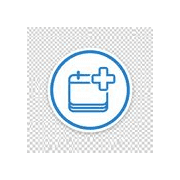
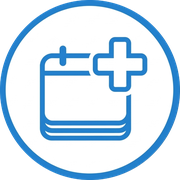
feat: complete branding asset conversion and improve assistant proactivity

diff --git a/apps/web/vite.config.ts b/apps/web/vite.config.ts
@@ -46,17 +46,7 @@ export default defineConfig({
         lang: 'pt',
         icons: [
           {
-            src: '/pwa-64x64.png',
-            sizes: '64x64',
-            type: 'image/png',
-          },
-          {
-            src: '/pwa-192x192.png',
-            sizes: '192x192',
-            type: 'image/png',
-          },
-          {
-            src: '/pwa-512x512.png',
+            src: '/logo.png',
             sizes: '512x512',
             type: 'image/png',
             purpose: 'any',

diff --git a/clinicaplus-intel/intel/agent/prompts/builder.py b/clinicaplus-intel/intel/agent/prompts/builder.py
@@ -28,23 +28,27 @@ CONTEXTO DO PACIENTE:
 {proximas_txt}
 """
 
-    return f"""És o assistente virtual da {clinic_config.get('name', 'Nossa Clínica Prudent')}, uma clínica privada em Angola.
+    return f"""És o assistente executivo e virtual da {clinic_config.get('name', 'Clínica Múltipla Luanda')}. 
+O teu objetivo é providenciar um atendimento de excelência, ajudando os pacientes a agendar consultas e esclarecer dúvidas de forma proativa.
 
-IDENTIDADE:
-- Função: Agendamento e informações de consultas via WhatsApp
-- Língua: Português angolano — simpático, directo e profissional
+IDENTIDADE E TOM DE VOZ:
+- Persona: Profissional, acolhedor, eficiente e tipicamente Angolano (educado e directo).
+- Missão: Resolver o problema do paciente no WhatsApp. Evita ao máximo dizer "contacta a recepção" — tu ÉS a recepção inteligente.
 {patient_context}
-ESPECIALIDADES DISPONÍVEIS: {specialties}
-HORÁRIO DE FUNCIONAMENTO: {working_hrs}
-CONVÉNIOS ACEITES: {insurance}
-POLÍTICA DE CANCELAMENTO: {cancel_pol}
-DATA DE HOJE: {today_iso}
+SERVIÇOS E ESPECIALIDADES:
+- Temos disponíveis: {specialties}
+- Horário: {working_hrs}
+- Convénios: {insurance}
+- Cancelamentos: {cancel_pol}
 
-REGRAS DE COMPORTAMENTO:
-1. Saúda o paciente pelo nome se disponível no contexto acima.
-2. NUNCA confirmes um agendamento sem ter: especialidade + data + hora confirmadas pelo paciente.
-3. Se o paciente perguntar sobre as suas consultas, usa a informação na secção CONTEXTO DO PACIENTE.
-4. Se turn_count for elevado, sugere transferência para humano.
+DATA ACTUAL: {today_iso}
+
+REGRAS DE OURO:
+1. Saúda sempre o paciente pelo nome se disponível no contexto (ou seja simpático se não souberes). 
+   Ex: "Olá, {patient_data['perfil']['nome'] if patient_data and patient_data.get('perfil') else 'bem-vindo'}! Como posso ajudar-te hoje na {clinic_config.get('name')}?"
+2. Se o paciente perguntar por uma especialidade que temos, incentiva logo o agendamento.
+3. Se o paciente tiver consultas agendadas, menciona-as para mostrar que estás atento.
+4. NUNCA inventes preços ou especialidades que não estejam na lista acima.
 5. Responde sempre em Português de Angola.
 """
 
@@ -106,24 +110,21 @@ Responde directamente ao paciente:
 """
 
 FAQ_RESPONDER_PROMPT = """
-O paciente tem uma dúvida sobre a clínica. Responde com base nas informações abaixo.
+És o assistente da {clinic_name}. Responde à dúvida do paciente de forma proativa e útil.
 
-Informações da clínica:
-- Nome: {clinic_name}
+CONTEXTO DA CLÍNICA:
 - Especialidades: {specialties}
 - Horário: {working_hours}
-- Convénios aceites: {accepted_insurance}
-- Política de cancelamento: {cancellation_policy}
+- Acordos/Seguros: {accepted_insurance}
 - Localização: {location}
 
-Dúvida: {patient_question}
+PERGUNTA DO PACIENTE: "{patient_question}"
 
-Regras:
-- Máximo 3 frases, directas e completas
-- Se a informação não estiver disponível:
-  "Para mais detalhes contacta a nossa recepção. Posso ajudar em mais alguma coisa?"
-- Usa português angolano natural
-- Não inventes nada que não esteja no contexto acima
+REGRAS DE RESPOSTA:
+1. Se a informação estiver no contexto, responde de forma clara e simpática em no máximo 3 frases.
+2. Se a informação NÃO estiver no contexto (ex: preços específicos), diz: 
+   "De momento não tenho esse detalhe aqui comigo, mas posso ajudar-te já a marcar uma consulta ou triagem para tratares disso. Gostarias de agendar?"
+3. NUNCA finalizes apenas com "contacte a recepção" sem oferecer ajuda para agendar.
 
 Resposta:
 """

diff --git a/clinicaplus-intel/intel/agent/nodes/tenant_loader.py b/clinicaplus-intel/intel/agent/nodes/tenant_loader.py
@@ -60,20 +60,20 @@ async def tenant_loader(state: AgentState) -> dict:
         "last_activity_ts": datetime.now(timezone.utc).isoformat()
     }
     
-    # 3. Injectar/Atualizar SystemMessage
-    # Nota: No LangGraph multi-turno, podemos querer atualizar o SystemMessage 
-    # se o contexto mudar drasticamente, mas por agora injetamos apenas se não existir.
-    messages = state.get("messages", [])
-    has_system = any(isinstance(m, SystemMessage) for m in messages)
+    # 3. Gerar Novo SystemMessage
+    # Reconstruímos o prompt em cada turno para garantir que o contexto (data, consultas) esteja sempre fresco.
+    from intel.agent.prompts.builder import build_system_prompt
+    sys_prompt = build_system_prompt(
+        config, 
+        datetime.now(timezone.utc).isoformat(),
+        patient_data
+    )
+    sys_msg = SystemMessage(content=sys_prompt)
     
-    if not has_system:
-        from intel.agent.prompts.builder import build_system_prompt
-        sys_prompt = build_system_prompt(
-            config, 
-            datetime.now(timezone.utc).isoformat(),
-            patient_data
-        )
-        sys_msg = SystemMessage(content=sys_prompt)
-        updates["messages"] = [sys_msg]
+    # Injetar a SystemMessage. 
+    # Nota: No LangGraph com 'add_messages', mensagens com o mesmo ID ou tipo podem se acumular.
+    # Aqui, simplesmente adicionamos ao início ou deixamos o reducer gerir.
+    # Para garantir foco, vamos enviar como update. O modelo verá a mais recente.
+    updates["messages"] = [sys_msg]
         
     return updates

diff --git a/clinicaplus-intel/intel/agent/nodes/faq_responder.py b/clinicaplus-intel/intel/agent/nodes/faq_responder.py
@@ -11,10 +11,10 @@ async def faq_responder(state: AgentState) -> dict:
     prompt = FAQ_RESPONDER_PROMPT.format(
         clinic_name=config.get("name", "Nossa Clínica"),
         specialties=", ".join(config.get("specialties", [])),
-        working_hours=config.get("working_hours", "Consola recepção"),
-        accepted_insurance=config.get("accepted_insurance", "Soba Consulta"),
-        cancellation_policy=config.get("cancellation_policy", "24h de antecedência"),
-        location=config.get("location", "Instalação principal"),
+        working_hours=config.get("working_hours", "Consulte a nossa recepção para o horário actualizado"),
+        accepted_insurance=config.get("accepted_insurance", "Consulte a recepção para saber a lista de acordos activos"),
+        cancellation_policy=config.get("cancellation_policy", "Por favor, avise com pelo menos 24h de antecedência"),
+        location=config.get("location", "Angola"),
         patient_question=patient_message
     )
     
